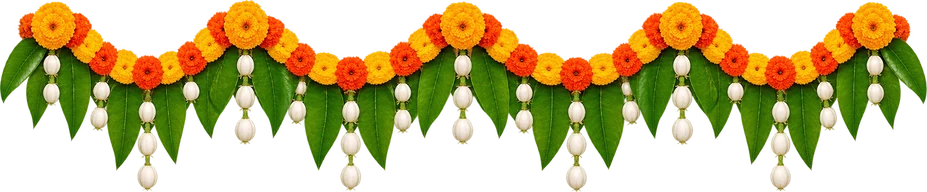
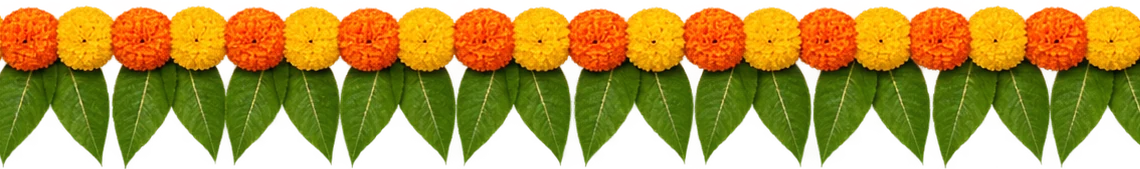
Use long straight toran as a seamless header strip
Replace the swag-style garland with a straight marigold and mango-leaf
toran. A ten-pair section, cut between flowers so the orange/yellow
alternation continues across the join, repeats seamlessly across the
header at 64px (48px on phones).

diff --git a/src/components/Toran.module.css b/src/components/Toran.module.css
@@ -1,15 +1,18 @@
 .toran {
   /*
-   * toran.webp is 927×192. On narrow screens the height (width × 192/927) makes
-   * one garland span the full width; once it reaches 96px, whole garlands repeat
-   * ("round" stretches them slightly so none is cut off at the edges).
+   * toran.webp (1140×169) is a seamless section of a straight marigold and
+   * mango-leaf toran: ten orange/yellow pairs cut between flowers, so copies
+   * join without a visible seam and it repeats across any width.
    */
-  height: min(20.7vw, 96px);
+  height: 64px;
   border-top: 1px solid rgb(212 171 104 / 67%);
-  background-image: url('../assets/brand/toran.webp');
-  background-position: center top;
-  background-size: auto 100%;
-  background-repeat: round no-repeat;
+  background: url('../assets/brand/toran.webp') left top / auto 100% repeat-x;
   pointer-events: none;
   filter: drop-shadow(0 5px 6px rgb(22 11 22 / 50%));
+}
+
+@media (max-width: 40rem) {
+  .toran {
+    height: 48px;
+  }
 }
